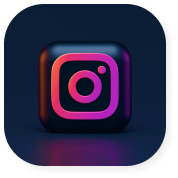
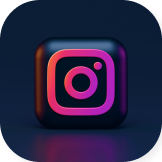
圖片

diff --git a/index.html b/index.html
@@ -95,11 +95,11 @@
                 <h2 class="fz-64 color-w">CONTACT ME</h2>
                 <img src="https://raw.githubusercontent.com/kimwoozi/week2/main/img/trending_flat_black_24dp%201.png" alt="trending">
             </div>
-            <dic>
-                <a class="image" href="#"><img src="https://raw.githubusercontent.com/kimwoozi/week2/main/img/discord.png" alt="dc"></a>
-                <a class="image" href="#"><img src="https://raw.githubusercontent.com/kimwoozi/week2/main/img/instagram%20(1).png" alt="ig"></a>
-                <a class="image" href="#"><img src="https://raw.githubusercontent.com/kimwoozi/week2/main/img/message.png" alt="message"></a>
-            </dic>
+            <div class="flex image">
+                <a href="#"><img src="https://raw.githubusercontent.com/kimwoozi/week2/main/img/discord(1).png" alt="dc"></a>
+                <a href="#"><img src="https://raw.githubusercontent.com/kimwoozi/week2/main/img/instagram%20(1).png" alt="ig"></a>
+                <a href="#"><img src="https://raw.githubusercontent.com/kimwoozi/week2/main/img/message.png" alt="message"></a>
+            </div>
         </div>
     </div>
 

diff --git a/css/all.css b/css/all.css
@@ -145,7 +145,12 @@ nav ul li{
     align-items: center;
 }
 .image img{
-    width: 162px;
+    width: 150x;
     height: 162px;
     object-fit: cover;
+    border-radius: 40px;
+}
+.contact img:hover {
+  box-shadow: 0px 0px 16px 3px rgba(144, 148, 255, 0.9);
+  border-radius: 40px;
 }
